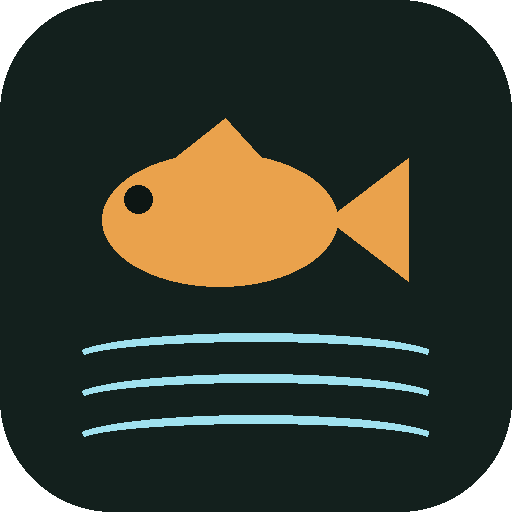
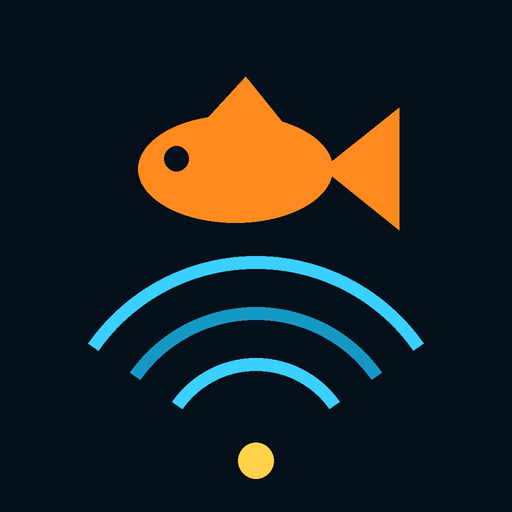
Add files via upload

diff --git a/src/features/more/Install.tsx b/src/features/more/Install.tsx
@@ -1,0 +1,75 @@
+import { useEffect, useState } from 'react';
+import { lsGet, lsSet } from '@/lib/util';
+import { Icon } from '@/components/ui';
+
+interface BeforeInstallPromptEvent extends Event { prompt: () => Promise<void>; userChoice: Promise<{ outcome: 'accepted' | 'dismissed' }>; }
+
+let deferred: BeforeInstallPromptEvent | null = null;
+if (typeof window !== 'undefined') {
+  window.addEventListener('beforeinstallprompt', (e) => { e.preventDefault(); deferred = e as BeforeInstallPromptEvent; window.dispatchEvent(new Event('wff-installable')); });
+  window.addEventListener('appinstalled', () => { deferred = null; lsSet('wff-installed', '1'); window.dispatchEvent(new Event('wff-installable')); });
+}
+
+export function isStandalone(): boolean {
+  try { return window.matchMedia('(display-mode: standalone)').matches || (navigator as unknown as { standalone?: boolean }).standalone === true; } catch { return false; }
+}
+function isIOS(): boolean { return /iPhone|iPad|iPod/.test(navigator.userAgent) || (navigator.platform === 'MacIntel' && navigator.maxTouchPoints > 1); }
+function isAndroid(): boolean { return /Android/.test(navigator.userAgent); }
+
+/** Install button (Chrome, Edge, Samsung) or the exact taps for iPhone Safari. Hidden once installed. */
+export function InstallGuide({ compact }: { compact?: boolean }) {
+  const [canPrompt, setCanPrompt] = useState(!!deferred);
+  const [installed, setInstalled] = useState(isStandalone() || lsGet('wff-installed') === '1');
+  useEffect(() => {
+    const on = () => { setCanPrompt(!!deferred); setInstalled(isStandalone() || lsGet('wff-installed') === '1'); };
+    window.addEventListener('wff-installable', on);
+    return () => window.removeEventListener('wff-installable', on);
+  }, []);
+
+  if (installed) return <div className="note">Installed. Open it from your home screen; it works offline with the lakes you have looked at.</div>;
+
+  const install = async () => {
+    if (!deferred) return;
+    await deferred.prompt();
+    const { outcome } = await deferred.userChoice;
+    if (outcome === 'accepted') { lsSet('wff-installed', '1'); setInstalled(true); }
+    deferred = null; setCanPrompt(false);
+  };
+
+  if (canPrompt) {
+    return (
+      <div>
+        <button className="btn primary" onClick={install}><Icon name="plus" />Install on this phone</button>
+        {!compact && <div className="note" style={{ paddingTop: 8 }}>Puts the Fish Finder icon on your home screen, full screen, no browser bar.</div>}
+      </div>
+    );
+  }
+  if (isIOS()) {
+    return (
+      <div className="note" style={{ lineHeight: 1.6 }}>
+        On iPhone, open this page in <b>Safari</b> (not Chrome), tap the <b>Share</b> button (the square with the arrow at the bottom), scroll the sheet and tap <b>Add to Home Screen</b>, then <b>Add</b>. The icon appears with your other apps.
+      </div>
+    );
+  }
+  if (isAndroid()) {
+    return <div className="note" style={{ lineHeight: 1.6 }}>On Android, tap the browser menu (three dots) and choose <b>Install app</b> or <b>Add to Home screen</b>.</div>;
+  }
+  return <div className="note" style={{ lineHeight: 1.6 }}>On a phone, open wa-crappie-lakes.vercel.app and use Add to Home Screen (iPhone Safari: Share, then Add to Home Screen. Android: browser menu, Install app). On a Mac or PC, Chrome shows an install icon at the right end of the address bar.</div>;
+}
+
+/** One-time banner on phones that have not installed yet. */
+export function InstallBanner() {
+  const [hide, setHide] = useState(() => lsGet('wff-install-dismissed') === '1' || isStandalone() || lsGet('wff-installed') === '1');
+  const [mobile] = useState(() => typeof window !== 'undefined' && window.matchMedia('(max-width: 760px)').matches);
+  if (hide || !mobile) return null;
+  return (
+    <div className="item" style={{ gridTemplateColumns: '1fr auto', cursor: 'default', marginTop: 8, borderColor: 'rgba(255,138,31,.4)' }}>
+      <div>
+        <div className="nm" style={{ fontSize: 14 }}>Put it on your home screen</div>
+        <div className="sub">One tap to open, full screen, works at the lake with no signal.</div>
+        <div style={{ marginTop: 8 }}><InstallGuide compact /></div>
+      </div>
+      <button className="iconbtn" aria-label="Dismiss" onClick={() => { lsSet('wff-install-dismissed', '1'); setHide(true); }}><Icon name="close" /></button>
+    </div>
+  );
+}

diff --git a/index.html b/index.html
@@ -9,14 +9,28 @@
 <meta name="apple-mobile-web-app-title" content="Fish Finder">
 <meta name="description" content="Washington lakes, creeks, and surf: where fish are, when to go, and what your crew caught.">
 <link rel="icon" type="image/png" sizes="192x192" href="/icon-192.png">
-<link rel="apple-touch-icon" href="/icon-192.png">
+<link rel="apple-touch-icon" href="/apple-touch-icon.png">
 <link rel="preconnect" href="https://fonts.googleapis.com">
 <link rel="preconnect" href="https://fonts.gstatic.com" crossorigin>
 <link href="https://fonts.googleapis.com/css2?family=IBM+Plex+Mono:wght@500;600&family=IBM+Plex+Sans+Condensed:wght@400;500;600;700&display=swap" rel="stylesheet">
 <title>WA Fish Finder</title>
 </head>
 <body>
-<div id="root"></div>
+<div id="root"><div id="boot-fallback" style="position:fixed;inset:0;display:flex;align-items:center;justify-content:center;background:#06101a;color:#6f8ea3;font:12px/1.5 ui-monospace,Menlo,monospace;letter-spacing:.08em;text-transform:uppercase;text-align:center;padding:24px">Loading WA Fish Finder</div></div>
+<script>
+  // If the app has not taken over the page after 10 s, offer a cache reset instead of a blank screen.
+  setTimeout(function () {
+    var el = document.getElementById('boot-fallback');
+    if (!el || !document.body.contains(el)) return;
+    el.innerHTML = 'The app did not start.<br><br><button id="boot-reset" style="font:inherit;padding:10px 14px;border:1px solid #173147;border-radius:6px;background:#ff8a1f;color:#1a0d00;font-weight:700">Clear cache and reload</button>';
+    document.getElementById('boot-reset').onclick = function () {
+      var p = [];
+      if (navigator.serviceWorker) p.push(navigator.serviceWorker.getRegistrations().then(function (rs) { return Promise.all(rs.map(function (r) { return r.unregister(); })); }));
+      if (window.caches) p.push(caches.keys().then(function (ks) { return Promise.all(ks.map(function (k) { return caches.delete(k); })); }));
+      Promise.all(p).catch(function () {}).then(function () { location.replace(location.pathname + '?r=' + Date.now()); });
+    };
+  }, 10000);
+</script>
 <script type="module" src="/src/main.tsx"></script>
 </body>
 </html>

diff --git a/src/App.tsx b/src/App.tsx
@@ -1,4 +1,4 @@
-import { useEffect } from 'react';
+import { useEffect, useState } from 'react';
 import { useAuth } from '@/store/auth';
 import { useData } from '@/store/data';
 import { useUI, type Tab } from '@/store/ui';
@@ -57,6 +57,25 @@ function Sheets() {
   }
 }
 
+function BootScreen() {
+  const [slow, setSlow] = useState(false);
+  useEffect(() => { const t = setTimeout(() => setSlow(true), 4000); return () => clearTimeout(t); }, []);
+  return (
+    <div className="gate">
+      <div style={{ textAlign: 'center' }}>
+        <div className="spinner" style={{ width: 22, height: 22 }} />
+        <div className="note" style={{ marginTop: 12, letterSpacing: '.08em', textTransform: 'uppercase', fontSize: 11 }}>Starting</div>
+        {slow && (
+          <div style={{ marginTop: 16 }}>
+            <div className="note" style={{ marginBottom: 8 }}>Taking longer than usual.</div>
+            <button className="btn" onClick={async () => { try { const regs = await navigator.serviceWorker?.getRegistrations(); for (const r of regs || []) await r.unregister(); const keys = await caches.keys(); for (const k of keys) await caches.delete(k); } catch { /* ignore */ } location.reload(); }}>Clear cache and reload</button>
+          </div>
+        )}
+      </div>
+    </div>
+  );
+}
+
 export default function App() {
   const status = useAuth(s => s.status);
   const userId = useAuth(s => s.userId);
@@ -72,7 +91,7 @@ export default function App() {
   useEffect(() => { init(); }, [init]);
   useEffect(() => { if (userId) { boot(userId); loadLaunches(); } return () => { if (userId) teardown(); }; }, [userId, boot, teardown, loadLaunches]);
 
-  if (status === 'booting') return <div className="gate"><div className="spinner" /></div>;
+  if (status === 'booting') return <BootScreen />;
   if (status === 'signed_out') return <><Gate /><Toasts /></>;
 
   return (

diff --git a/src/store/auth.ts b/src/store/auth.ts
@@ -32,13 +32,18 @@ export const useAuth = create<AuthState>((set, get) => ({
     const hint: AuthHint | null = hintRaw ? (() => { try { return JSON.parse(hintRaw); } catch { return null; } })() : null;
     if (hint && !navigator.onLine) set({ status: 'signed_in', userId: hint.id, email: hint.email });
 
-    const { data } = await sb.auth.getSession();
-    const s = data.session;
+    // getSession can stall on some phones (browser lock API, stale service worker). Never sit on a dark screen.
+    const timeout = new Promise<null>(res => setTimeout(() => res(null), 7000));
+    const got = await Promise.race([sb.auth.getSession().then(r => r.data.session).catch(() => null), timeout]);
+    const s = got;
     if (s) {
       set({ status: 'signed_in', session: s, userId: s.user.id, email: s.user.email ?? null });
       lsSet(HINT_KEY, JSON.stringify({ id: s.user.id, email: s.user.email }));
     } else if (hint && !navigator.onLine) {
       // keep optimistic offline state
+    } else if (hint && got === null) {
+      // Timed out or offline with a remembered account: open on cached data, a fresh session arrives via onAuthStateChange.
+      set({ status: 'signed_in', userId: hint.id, email: hint.email });
     } else {
       set({ status: 'signed_out', session: null, userId: null, email: null });
     }

diff --git a/src/features/more/MorePanel.tsx b/src/features/more/MorePanel.tsx
@@ -10,6 +10,7 @@ import { toast } from '@/lib/toast';
 import { Chip, Empty } from '@/components/ui';
 import { useFeeds } from '@/store/feeds';
 import { useFeedLoads, RulesList } from '@/features/feeds/FeedBits';
+import { InstallGuide } from '@/features/more/Install';
 
 type RuleWater = 'all' | 'river' | 'lake' | 'salt';
 
@@ -177,8 +178,8 @@ export function MorePanel() {
       </div>
 
       <div className="section" style={{ marginBottom: 12 }}>
-        <h3>Install</h3>
-        <div className="note">On iPhone, open this page in Safari, tap Share, then Add to Home Screen. On Android, open the browser menu and tap Install app.</div>
+        <h3>Install on your phone</h3>
+        <InstallGuide />
       </div>
     </div>
   );

diff --git a/src/features/lakes/LakesPanel.tsx b/src/features/lakes/LakesPanel.tsx
@@ -10,6 +10,7 @@ import { useLakes, filterLakes, type SortKey, type SizeKey } from '@/features/la
 import { useFeeds } from '@/store/feeds';
 import { boatFit } from '@/domain/boatFit';
 import { solunarSummary } from '@/domain/scoring';
+import { InstallBanner } from '@/features/more/Install';
 import { lakeSub } from '@/domain/journal';
 import { haversine } from '@/lib/util';
 import { resolveZip, geocodePlace, locateMe } from '@/api/geocode';
@@ -131,6 +132,7 @@ export function LakesPanel() {
 
   return (
     <>
+      <InstallBanner />
       <div className="readout">
         <h2>Lakes</h2>
         <div className="rd">Bite window<b>{sol.majors[0]}</b></div>

diff --git a/vite.config.ts b/vite.config.ts
@@ -9,12 +9,13 @@ export default defineConfig({
     react(),
     VitePWA({
       registerType: 'autoUpdate',
-      includeAssets: ['icon-192.png', 'icon-512.png'],
+      includeAssets: ['icon-192.png', 'icon-512.png', 'apple-touch-icon.png'],
       manifest: {
         name: 'WA Fish Finder',
         short_name: 'Fish Finder',
         description: 'Washington lakes, creeks, and surf: where fish are, when to go, and what your crew caught.',
-        start_url: '/',
+        start_url: '/#lakes',
+        id: '/',
         scope: '/',
         display: 'standalone',
         background_color: '#06101a',

diff --git a/docs/SPEC.md b/docs/SPEC.md
@@ -115,3 +115,9 @@ Bug fixed on the way: with a remembered account and no signal, the app signed it
 ZIP and place lookups now go through /api/geocode (Zippopotam for ZIPs, Nominatim bounded to Washington for places) so the request carries a proper User-Agent; installed PWAs and some phone browsers send no Referer and Nominatim refuses those with a 403, which showed in the app as a lookup error. The client falls back to the direct calls if the function is unreachable. The ZIP or place field is now a form with a Go button, so phone keyboards submit it and there is a tap target besides the return key. Error text names the problem (no such place in Washington, ZIP not found, location permission denied).
 
 The active tab is written to the URL hash (#lakes, #creeks, #plan, #log, #more), so a refresh, a bookmark, or the back button lands on the same tab. The Plan tab remembers its segment (Lakes, Rivers, Hikes, Surf) in localStorage.
+
+## v3.4.3 and v3.5.0: boot guard, home-screen install (Sept 7, 2026)
+
+Boot guard: sb.auth.getSession() races a 7 s timeout; on timeout with a remembered account the app opens on cached data and picks up the real session from onAuthStateChange. The boot screen reads "Starting" and offers "Clear cache and reload" after 4 s. index.html carries a plain-script fallback: if the bundle has not replaced #boot-fallback in 10 s, it shows the same reset button (unregisters service workers, clears caches, reloads with a cache-busting query).
+
+Install: new icons in the Sonar palette (public/icon-192.png, icon-512.png, apple-touch-icon.png 180 px opaque; square so iOS and Android maskable both look right), manifest start_url /#lakes with id "/". src/features/more/Install.tsx captures beforeinstallprompt and shows a real Install button on Chrome, Edge, Samsung, and desktop Chrome; on iPhone it gives the exact Safari taps (Share, Add to Home Screen, Add); it hides once running standalone. The Lakes tab shows a one-time dismissable banner on phones; More has the full guide.
